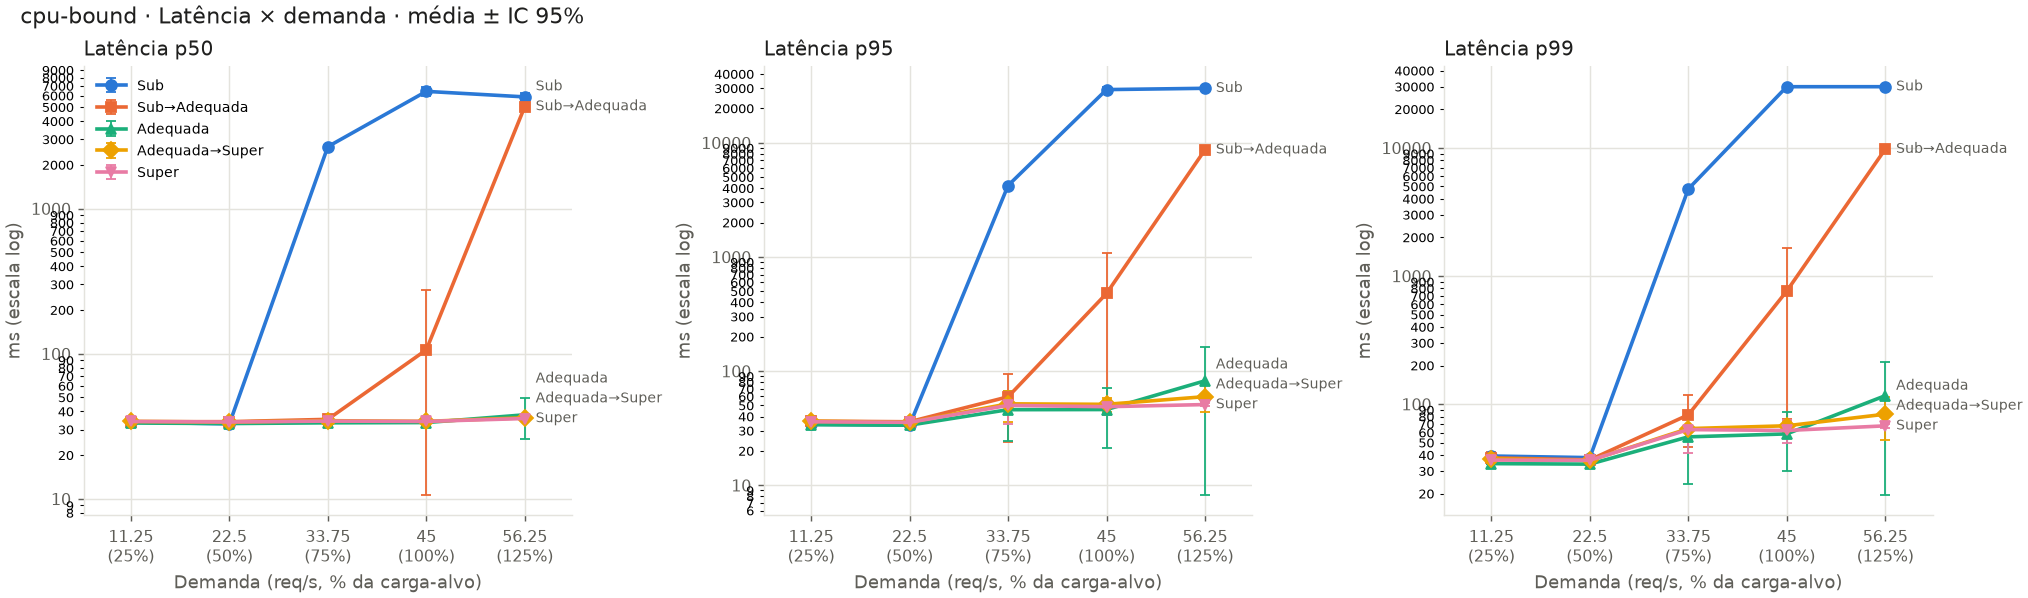
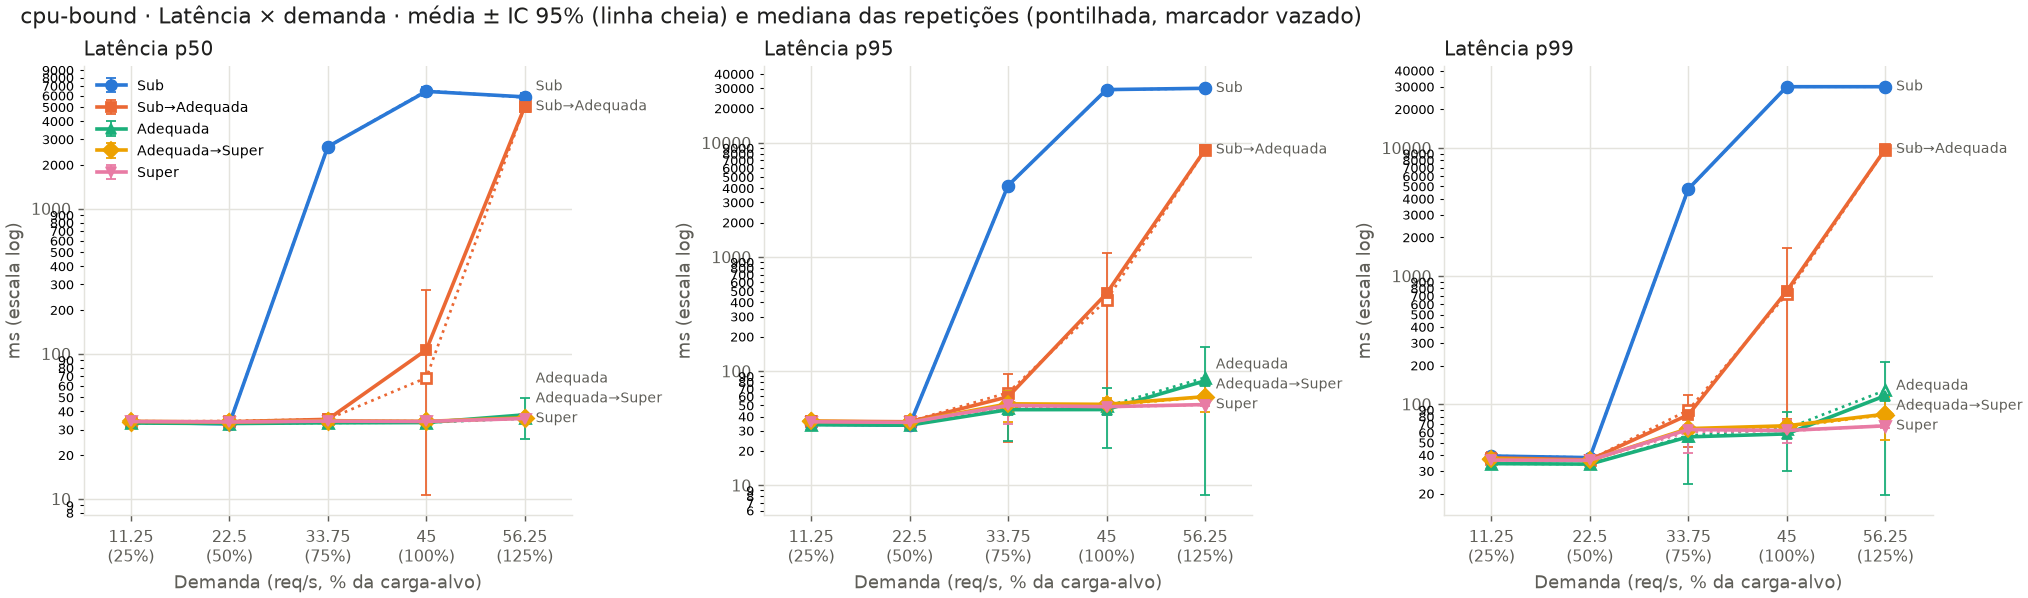
Análise: mediana das repetições (p50/p95/p99) na tabela e nos comparativos; nota das rodadas anômalas a 125%

Changed region(s): [[0.2796, 0.0, 0.6834, 0.0602], [0.1864, 0.6321, 0.2175, 0.6622]]

diff --git a/common/analysis_lib.py b/common/analysis_lib.py
@@ -106,7 +106,9 @@ def summarize(reps: pd.DataFrame):
     ci = g[cols].agg(ci95).add_suffix("_ci95")
     events = [c for c in ("oom_kills", "worker_deaths_healthcheck", "worker_deaths_oom", "service_restarts") if c in reps]
     totals = g[events].sum(min_count=1).add_suffix("_total")   # contagens somadas nas repetições
-    out = pd.concat([g[["rate_rps", "vcpus", "ram_mb"]].first(), g.size().rename("n"), mean, ci, totals], axis=1)
+    # mediana das repetições: comportamento típico quando uma rodada isolada domina a média e o IC
+    median = g[["p50_ms", "p95_ms", "p99_ms"]].median().add_suffix("_median")
+    out = pd.concat([g[["rate_rps", "vcpus", "ram_mb"]].first(), g.size().rename("n"), mean, ci, median, totals], axis=1)
     return out.reset_index()
 
 
@@ -211,7 +213,7 @@ def plot_scenario(summ, sid, name, out):
     fig.savefig(out, dpi=130); plt.close(fig)
 
 
-def plot_compare(summ, scen, cols, title, out, logy=()):
+def plot_compare(summ, scen, cols, title, out, logy=(), medians=False):
     fig, axes = plt.subplots(1, len(cols), figsize=(5.2 * len(cols), 4.6), constrained_layout=True)
     for ax, col in zip(np.atleast_1d(axes), cols):
         label, unit = METRICS[col]
@@ -221,10 +223,15 @@ def plot_compare(summ, scen, cols, title, out, logy=()):
             d = summ[summ.scenario == s["id"]].sort_values("level_pct")
             if len(d):
                 line(ax, d, col, SERIES[i], MARKERS[i], s["name"])
+                if medians and f"{col}_median" in d:
+                    ax.plot(d.rate_rps, d[f"{col}_median"], linestyle=":", linewidth=1.5, color=SERIES[i],
+                            marker=MARKERS[i], markersize=6, markerfacecolor="white", markeredgewidth=1.5)
         style(ax, label, unit)
         demand_axis(ax, summ)
     np.atleast_1d(axes)[0].legend(frameon=False, fontsize=8)
-    fig.suptitle(f"{APP_DIR.name} · {title} · média ± IC 95%", x=0.01, ha="left", fontsize=12, color=INK)
+    subtitle = "média ± IC 95% (linha cheia) e mediana das repetições (pontilhada, marcador vazado)" if medians \
+        else "média ± IC 95%"
+    fig.suptitle(f"{APP_DIR.name} · {title} · {subtitle}", x=0.01, ha="left", fontsize=12, color=INK)
     for ax in np.atleast_1d(axes):
         ax.margins(x=0.12)
         place_direct_labels(ax)
@@ -256,12 +263,13 @@ def main(app_dir):
         if (summ.scenario == s["id"]).any():
             plot_scenario(summ, s["id"], s["name"], out / f"cenario_{s['id']}.png")
     plot_compare(summ, scen, ["p50_ms", "p95_ms", "p99_ms"], "Latência × demanda", out / "comparacao_latencia.png",
-                 logy=("p50_ms", "p95_ms", "p99_ms"))
+                 logy=("p50_ms", "p95_ms", "p99_ms"), medians=True)
     extra_cmp = EXTRA.get(APP_DIR.name, {}).get("compare", [])
     plot_compare(summ, scen, ["throughput_rps", "vm_cpu_pct", "vm_mem_used_mb"] + extra_cmp,
                  "Vazão e recursos × demanda", out / "comparacao_recursos.png")
 
-    cols = ["scenario", "level_pct", "rate_rps", "n", "throughput_rps", "p50_ms", "p95_ms", "p95_ms_ci95", "p99_ms",
+    cols = ["scenario", "level_pct", "rate_rps", "n", "throughput_rps", "p50_ms", "p50_ms_median", "p95_ms",
+            "p95_ms_ci95", "p95_ms_median", "p99_ms", "p99_ms_median",
             "failed_rate", "vm_cpu_pct", "vm_mem_used_mb", "host_cpu_max"]
     if APP_DIR.name == "memory-bound":
         cols += ["swap_after_reset_mb", "swap_at_measure_start_mb", "swap_max_mb", "swap_io_pg_s", "pgmajfault_s", "oom_kills_total",

diff --git a/memory-bound/README.md b/memory-bound/README.md
@@ -51,3 +51,7 @@ Por rodada, `meta.json` registra OOM kills (kernel), workers mortos e reiniciado
 ## Arquivos
 
 Mesma estrutura da cpu-bound: `app/`, `load/` (k6 e `demand.yaml`), `metrics/` (links para `../common/`), `calibration/`, `results/<cenário>/L<nível>/r<rep>/`, `results/analysis/`.
+
+## Resultados: rodadas anômalas a 125% (Adequada r3 e Super r3)
+
+Duas rodadas a 125% (27,5 req/s) com RAM folgada tiveram p50 de 1691 ms (Adequada, r3) e 1008 ms (Super, r3), sem swap e com ~40% de CPU; as outras 13 rodadas a 125% nesses cenários ficaram em ~406 ms. Nelas havia 34,7 e 22,7 requisições em andamento (lei de Little), acima das 16 vagas (`MAX_INFLIGHT=8` × 2 workers), contra ~11 nas demais. As conexões keep-alive do k6 se dividem de forma desigual entre os 2 workers; quando um worker enche suas 8 vagas, forma-se fila, o k6 abre mais conexões e o efeito se realimenta. É o limite de concorrência, não a memória (o mesmo desbalanceamento entre workers visto na cpu-bound). Essas rodadas dominam a média e o IC desses pontos; a análise mostra também a mediana das 3 repetições (`*_median` no `summary.csv` e linha pontilhada nos gráficos comparativos), que reflete o comportamento típico. As rodadas não foram refeitas.
